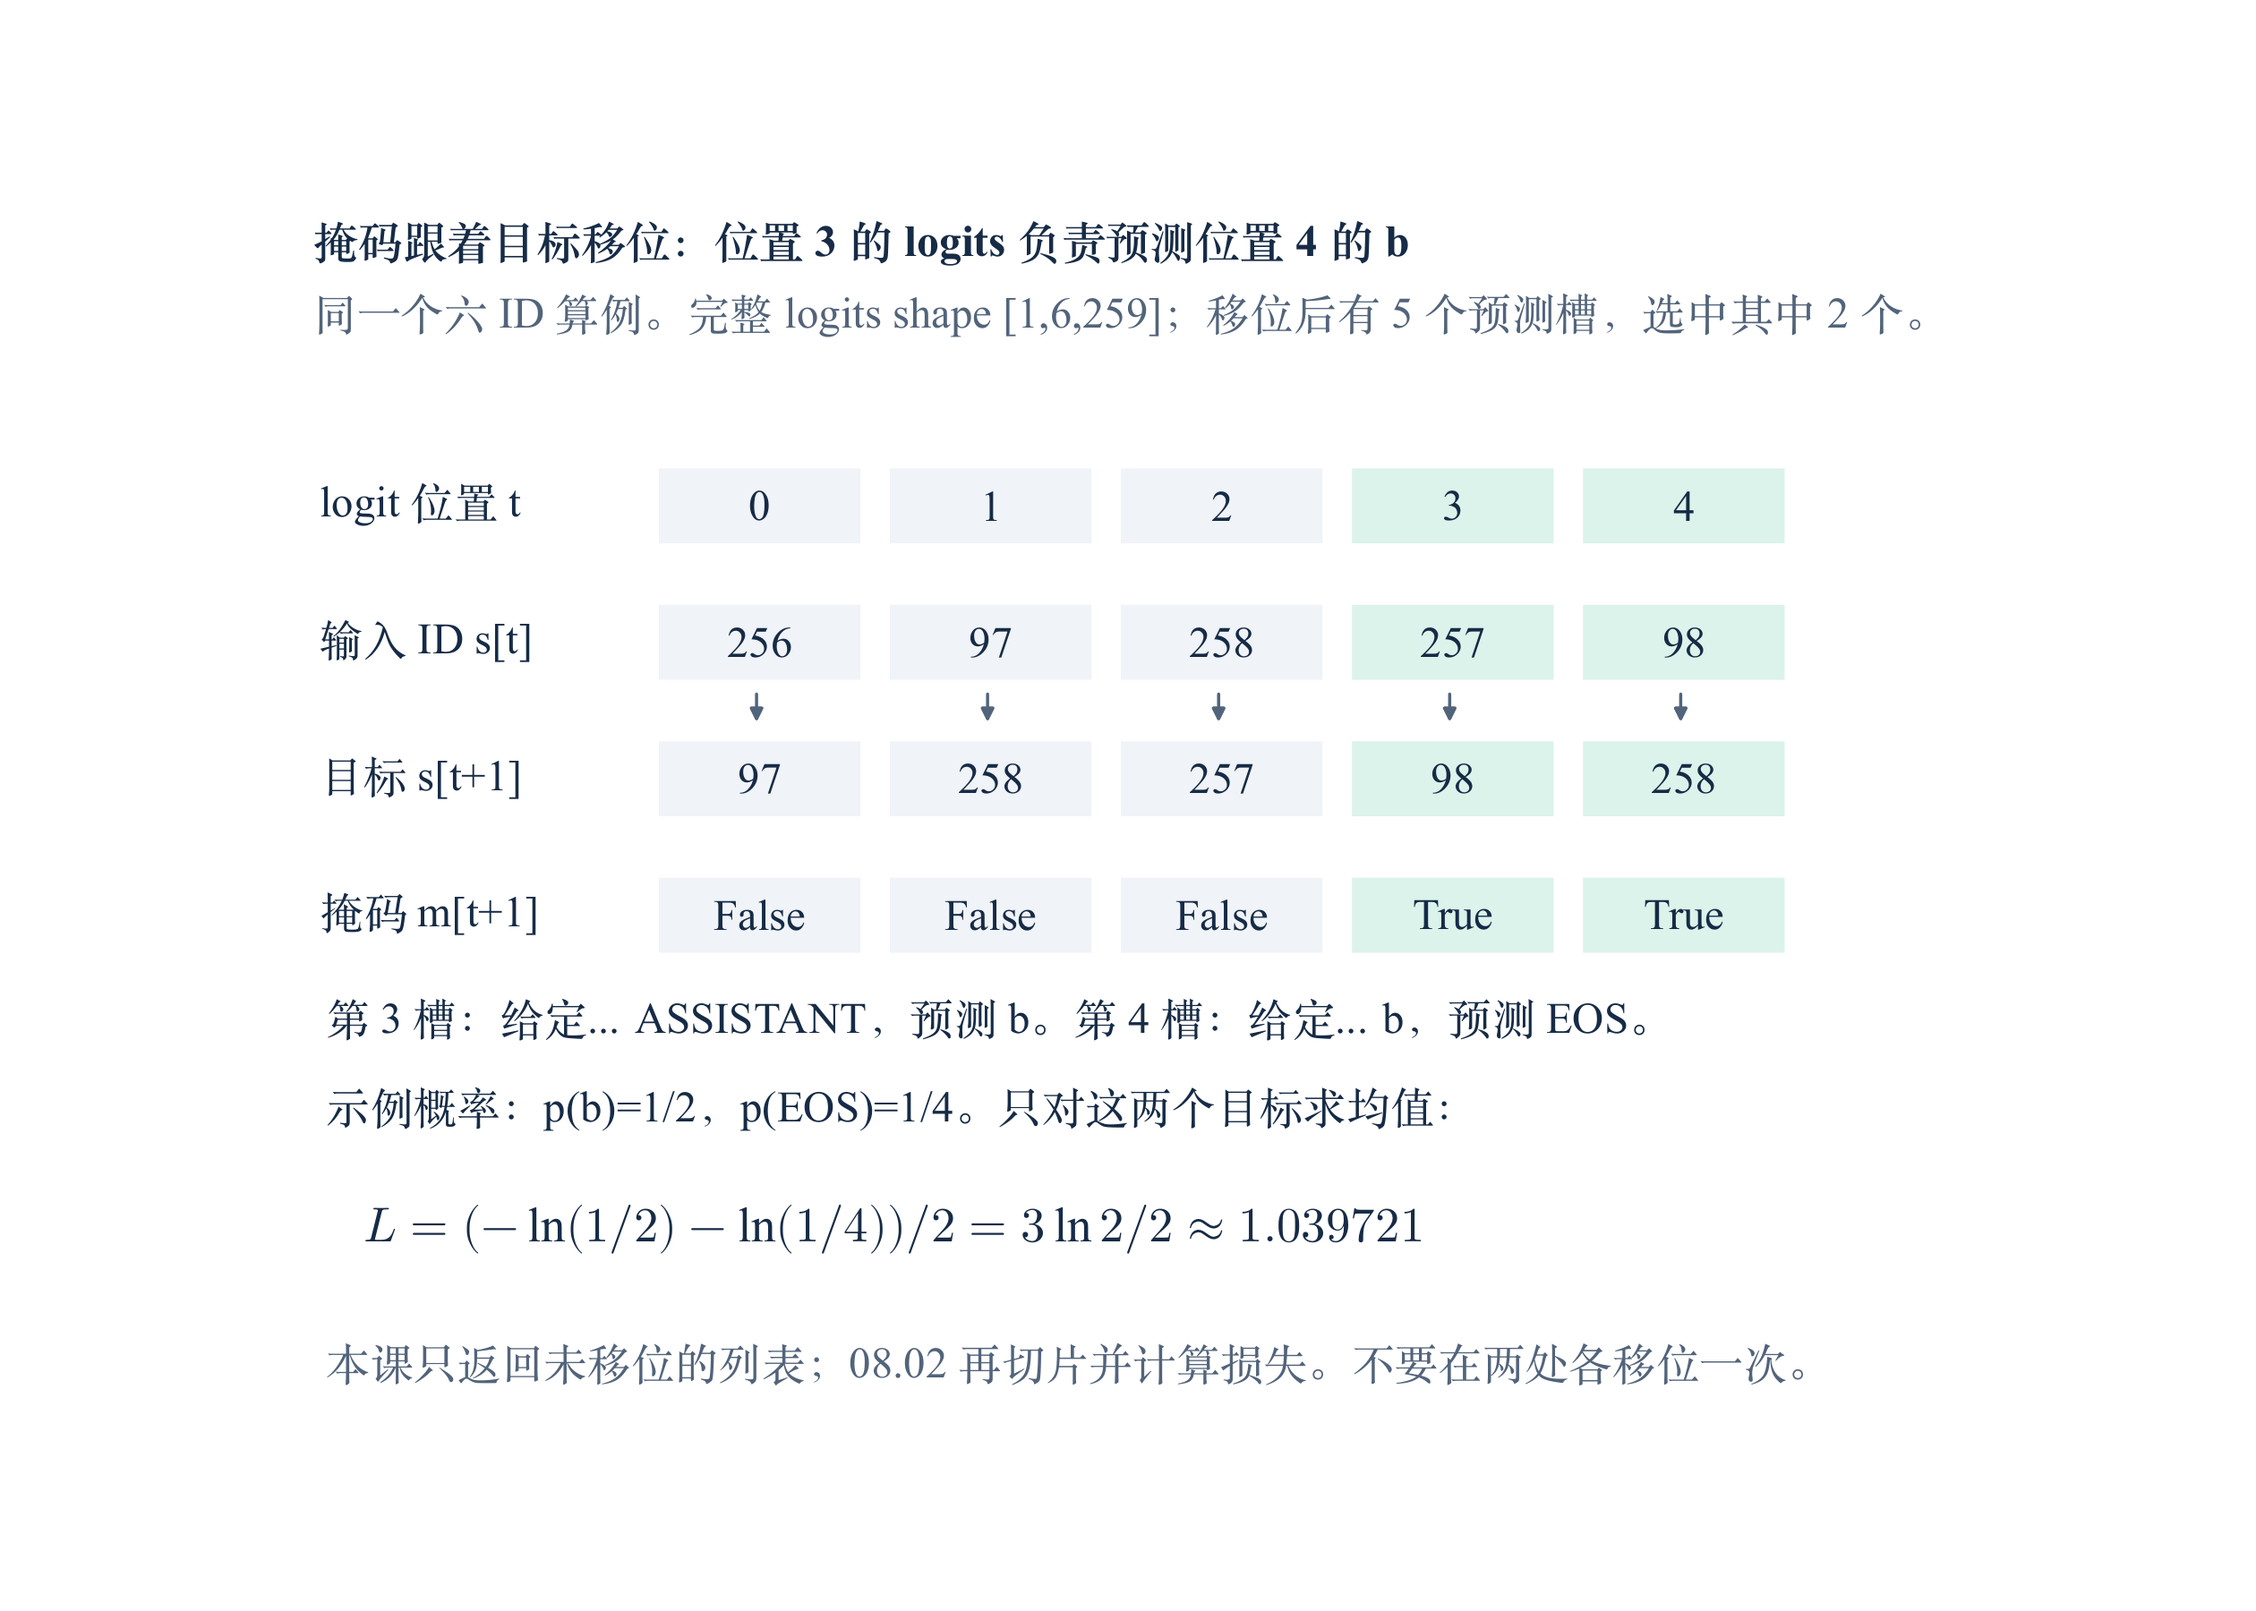
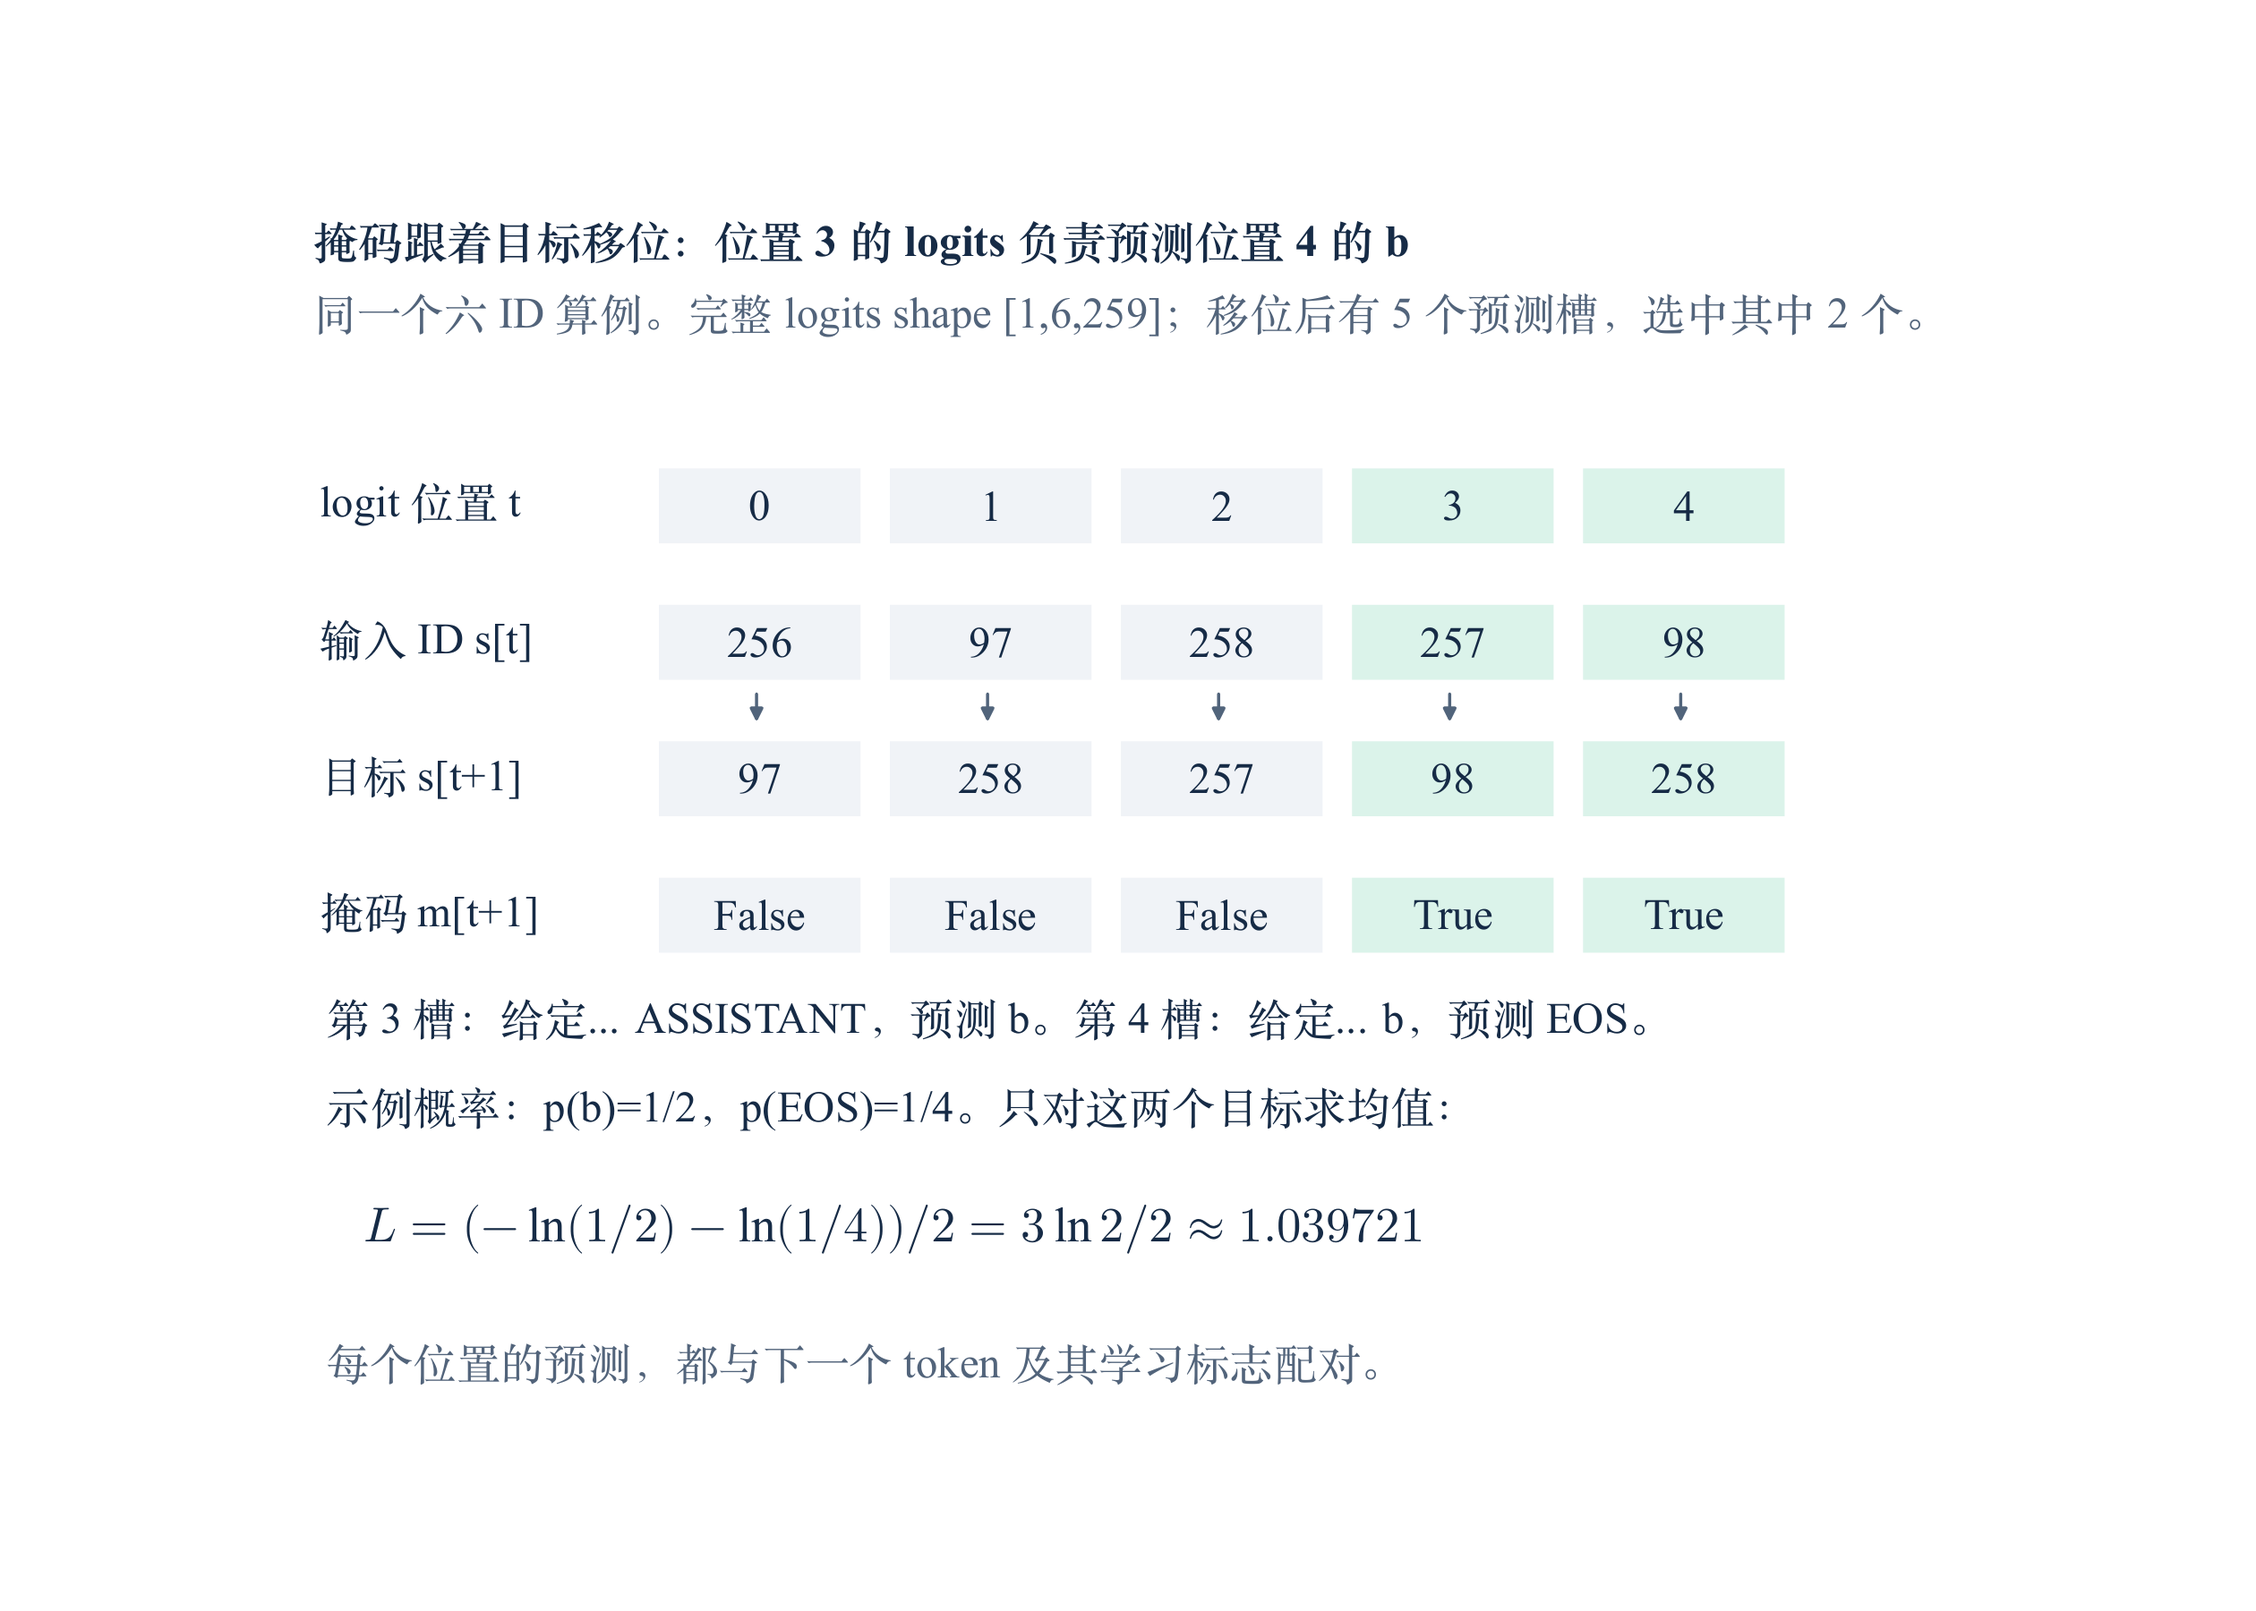
Explain conversation data flow before target-alignment figure

Changed region(s): [[0.1548, 0.84, 0.7429, 0.8711], [0.7738, 0.84, 0.8048, 0.8711]]

diff --git a/book/en/manuscript.md b/book/en/manuscript.md
@@ -14502,13 +14502,15 @@ Return these two lists as a tuple. There are six positions, but the highest ID i
 
 ### Connect the mask to next-token prediction
 
+`format_chat` prepares the complete conversation as two lists: `ids` and `learn_mask`. Each token has a corresponding flag, and both lists keep the original token order. The caller batches these lists and passes the complete `ids` tensor to the model. The model returns one row of prediction scores (logits) per position. The loss function `assistant_loss`, introduced in Section 08.02, uses these scores and the complete `ids` and `learn_mask` tensors as follows.
+
 The flag at position $i$ describes whether **that token** is a target we want to learn. A causal model's logit row at position $t$ predicts position $t+1$. Therefore later loss computation aligns:
 
 $$
-X=s[:-1],\quad Y=s[1:],\quad M=m[1:],\quad Z_{\mathrm{used}}=Z[:,:-1,:].
+Z_{\mathrm{used}}=Z[:,:-1,:],\quad Y=s[1:],\quad M=m[1:].
 $$
 
-For this lesson's later full-sequence-forward convention, $Z$ has shape `[1,6,259]`; we use five rows and five shifted targets. $X$ here describes the prefixes' input positions; it is not an additional model call after already computing full $Z$.
+Here $s$ is the full ID sequence and $m$ contains its learning flags. In the six-ID example, the model returns $Z$ with shape `[1,6,259]`. Its first five rows predict the tokens at positions 1–5. The final row has no next token within this example, so it is left out of the loss. Taking the first five logit rows and the last five IDs and flags gives these pairs:
 
 ```text
 logit position t       0      1      2      3      4
@@ -14517,9 +14519,9 @@ target ID            97    258    257     98    258
 shifted mask          F      F      F      T      T
 ```
 
-![The mask must shift with targets, not remain aligned to input rows](assets/08-01-shifted-target-mask.en.png){width=100%}
+At logit position 3, the prefix ends with the assistant role marker. This row predicts `b` at position 4, so it uses `b`'s True flag. The marker's own False flag describes a different target: the marker itself. The figure follows this same prediction-to-target pairing.
 
-At logit position 3, the prefix ends with the assistant role marker. That marker's own flag is False, but its logits predict `b` at position 4, whose flag is True. This distinction is why an unshifted mask would supervise the wrong positions.
+![Each prediction is paired with the next token and that token's learning flag](assets/08-01-shifted-target-mask.en.png){width=100%}
 
 If the model assigns probabilities $p(\texttt{b})=1/2$ and $p(\mathrm{EOS})=1/4$ at the two selected rows, the assistant-only mean loss is:
 
@@ -14534,8 +14536,6 @@ L=\frac{-\ln(1/2)-\ln(1/4)}{2}
 $$
 
 The denominator is two selected targets, not six tokens or five prediction slots. This equation describes mathematical selection; implementation should select valid losses rather than multiply excluded infinities by zero, as discussed in 07.02. Uniform logits across 259 candidates would instead give $\ln(259)\approx5.556828$ for every selected target. These are illustrative probability fixtures, not results from a trained model.
-
-**Do not implement shifting or loss inside `format_chat`.** Return aligned, unshifted lists. 08.02 will perform this next step; shifting in both places would be wrong. A training loader that already supplies aligned X/Y needs its own explicitly matched protocol, not another automatic shift.
 
 ### BPE, Unicode and structural IDs
 

diff --git a/book/zh-CN/manuscript.md b/book/zh-CN/manuscript.md
@@ -14355,13 +14355,15 @@ learn_mask      F    F    F    F    T    T
 
 ### 把掩码接到下一 token 预测
 
+`format_chat` 将完整对话整理成 `ids` 和 `learn_mask` 两条列表，每个 token 都有对应的学习标志，两条列表均保持原有 token 顺序。调用方将它们组成批次，再把完整的 `ids` 张量送入模型。模型在每个位置返回一行预测分数（logits）。第 08.02 节将介绍的损失函数 `assistant_loss`，使用这些分数以及完整的 `ids` 和 `learn_mask` 张量，按下面的方法配对预测与目标。
+
 位置 $i$ 的标志表示：**这个 token 自己**是否是要学习的目标。因果模型在位置 $t$ 的 logits 预测的是 $t+1$。因此之后的损失计算要这样对齐：
 
 $$
-X=s[:-1],\quad Y=s[1:],\quad M=m[1:],\quad Z_{\mathrm{used}}=Z[:,:-1,:].
+Z_{\mathrm{used}}=Z[:,:-1,:],\quad Y=s[1:],\quad M=m[1:].
 $$
 
-本课连接的是“完整序列前向”约定：完整 $Z$ 的 shape 为 `[1,6,259]`，从中选前五行，与五个移位后的目标配对。这里的 $X$ 描述这些预测槽的输入位置，不是在已计算完整 $Z$ 后再额外调用一次模型。
+这里的 $s$ 是完整 ID 序列，$m$ 是对应的学习标志。在六个 ID 的算例中，模型返回的 $Z$ 的 shape 为 `[1,6,259]`。前五行预测位置 1–5 的 token；最后一行在本例中没有下一个 token 可作目标，因此不参与损失计算。取前五行 logits，以及后五个 ID 和标志，就得到下面的配对：
 
 ```text
 logit 位置 t          0      1      2      3      4
@@ -14370,9 +14372,9 @@ logit 位置 t          0      1      2      3      4
 移位后的 mask         F      F      F      T      T
 ```
 
-![掩码随目标移位，不能继续对齐输入行](assets/08-01-shifted-target-mask.zh-CN.png){width=100%}
+在 logit 位置 3，前缀末尾是助手角色标记。这一行预测位置 4 的 `b`，所以使用 `b` 的 True 标志。角色标记自己的 False 标志描述的是另一个目标，即这个标记本身。下图展示的就是这种预测与目标的配对。
 
-在 logit 位置 3，前缀末尾是助手角色标记。这个标记自己的 flag 是 False，但这一行 logits 预测位置 4 的 `b`，而 `b` 的 flag 是 True。因此不移位掩码，就会监督错误的位置。
+![每个位置的预测与下一个 token 及其学习标志配对](assets/08-01-shifted-target-mask.zh-CN.png){width=100%}
 
 如果模型在两处被选中的预测行分别给出 $p(\texttt{b})=1/2$、$p(\mathrm{EOS})=1/4$，仅助手目标的平均损失为：
 
@@ -14387,8 +14389,6 @@ L=\frac{-\ln(1/2)-\ln(1/4)}{2}
 $$
 
 分母是两个被选中的目标，不是六个 token，也不是五个预测槽。该公式表达数学上的选择；实现时应选出有效损失，不要用零去乘被排除的无穷大，这正是 07.02 讨论过的问题。若 259 个候选的 logits 全相同，每个选中目标的损失则为 $\ln(259)\approx5.556828$。这是给定概率的教学算例，不是训练出的模型结果。
-
-**不要在 `format_chat` 中实现移位或损失。** 返回未移位、逐 token 对齐的列表。08.02 才完成下一步；两个地方各移位一次会出错。如果训练加载器已经提供对齐的 X/Y，需要匹配它自己的明确协议，不能再自动移位一次。
 
 ### BPE、Unicode 与结构 ID
 
